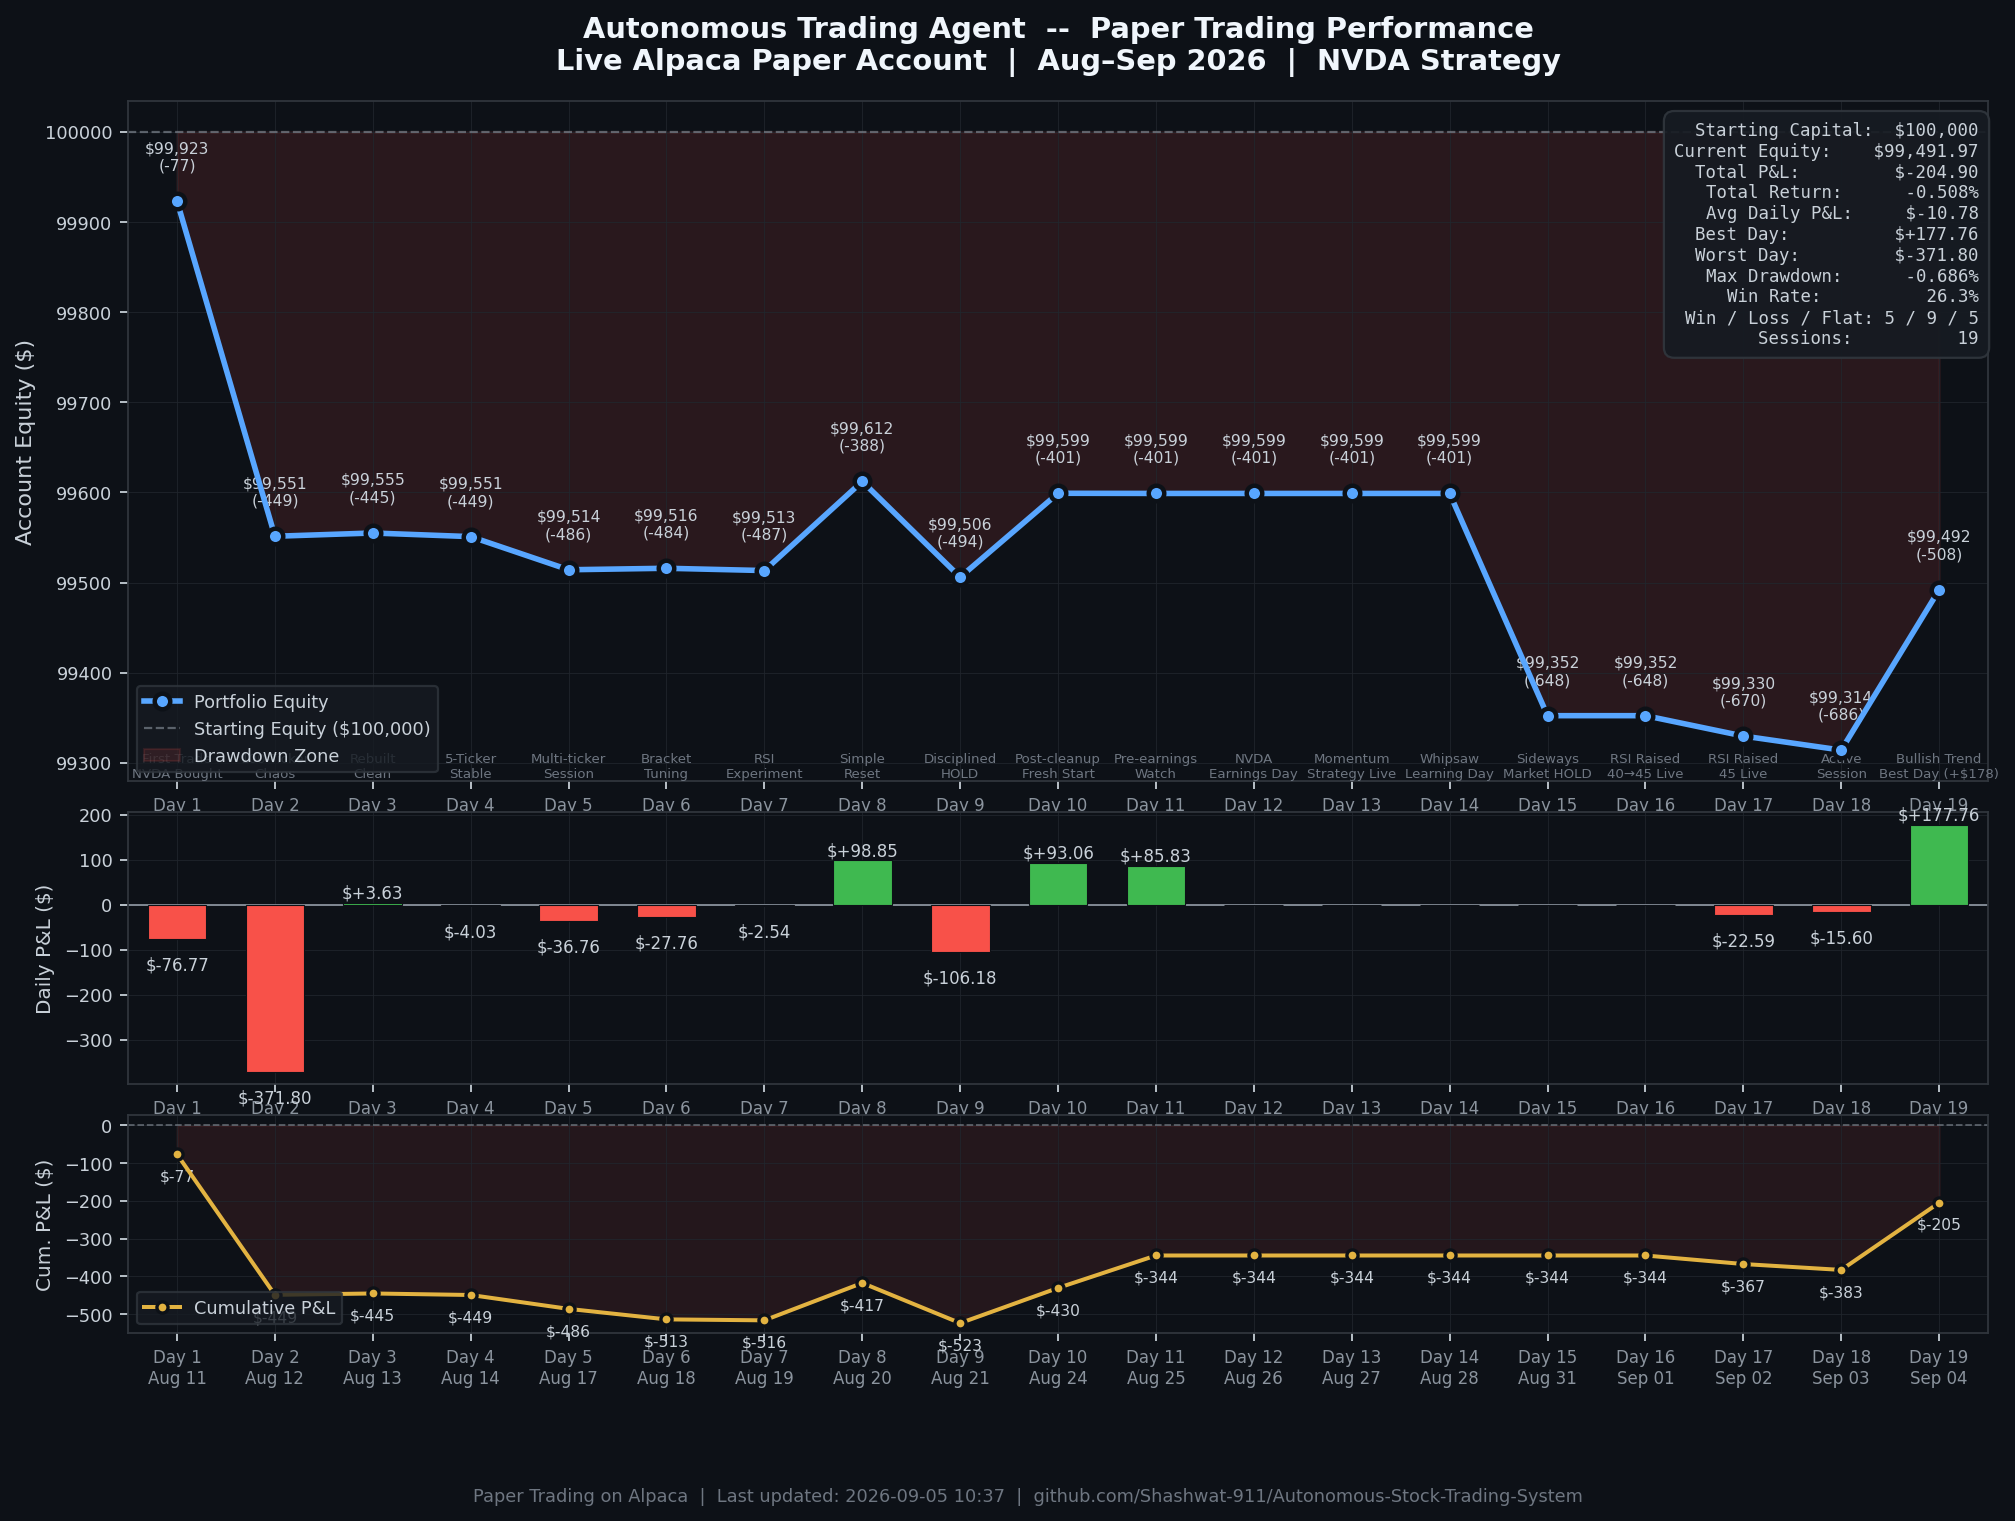
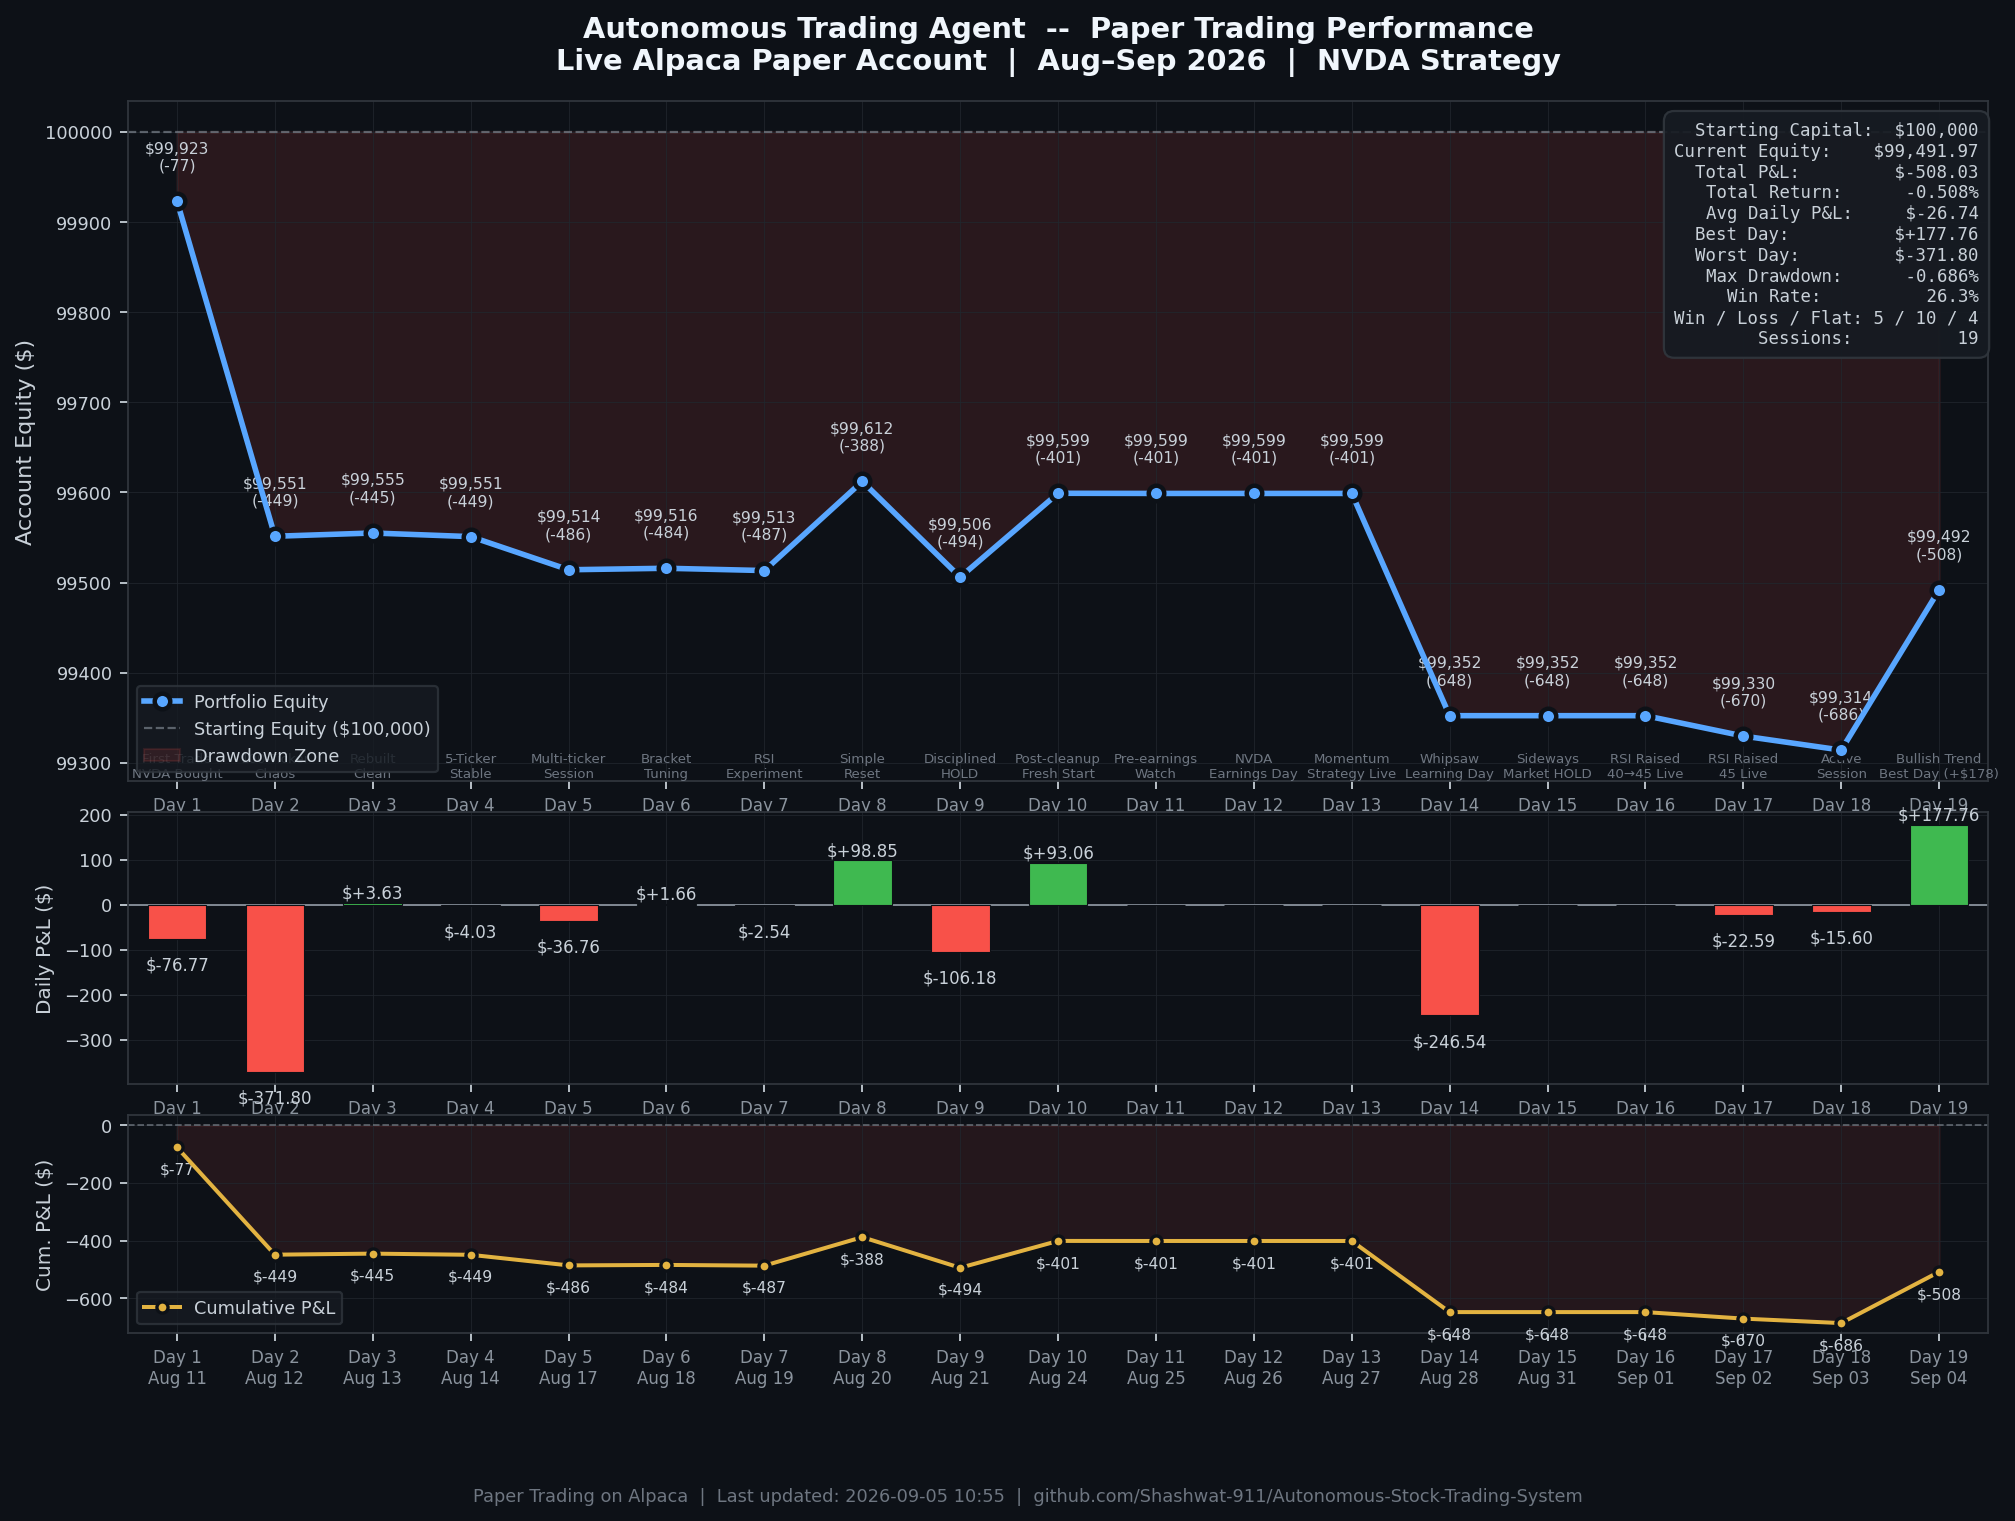
fix(analytics): reconcile equity history math and eliminate weekend API drift

diff --git a/scripts/fetch_alpaca_equity.py b/scripts/fetch_alpaca_equity.py
@@ -86,11 +86,25 @@ if os.path.exists(OUTPUT_PATH) and not new_df.empty:
     merged = pd.concat([existing_df, new_df], ignore_index=True)
     merged = merged.drop_duplicates(subset=["timestamp"], keep="last")
     merged = merged.sort_values("timestamp").reset_index(drop=True)
-    merged.to_csv(OUTPUT_PATH, index=False)
     df = merged
 else:
-    new_df.to_csv(OUTPUT_PATH, index=False)
+    new_df = new_df.sort_values("timestamp").reset_index(drop=True) if not new_df.empty else new_df
     df = new_df
+
+if not df.empty:
+    # Recalculate daily_pnl directly from consecutive equity deltas to prevent weekend-comparison bugs
+    starting = 100000.0
+    pnl = []
+    pnl_pct = []
+    for i, eq in enumerate(df["equity"]):
+        prev = starting if i == 0 else df["equity"].iloc[i-1]
+        diff = round(float(eq) - float(prev), 2)
+        pct = round((diff / float(prev)) * 100, 4) if float(prev) != 0 else 0.0
+        pnl.append(diff)
+        pnl_pct.append(pct)
+    df["daily_pnl"] = pnl
+    df["daily_pnl_pct"] = pnl_pct
+    df.to_csv(OUTPUT_PATH, index=False)
 
 # ── Summary ───────────────────────────────────────────────────────────────────
 print("\nEquity history saved to:", OUTPUT_PATH)

diff --git a/scripts/update_readme.py b/scripts/update_readme.py
@@ -23,7 +23,7 @@ def get_session_status(date_str, pnl):
         "2026-08-13": "Rebuilt Clean",
         "2026-08-14": "5-Ticker Stable",
         "2026-08-17": "Multi-ticker Session",
-        "2026-08-18": "Bracket Tuning",
+        "2026-08-18": "Bracket Tuning - Profitable",
         "2026-08-19": "RSI Experiment",
         "2026-08-20": "Simple Reset - Profitable",
         "2026-08-21": "Disciplined HOLD",
@@ -31,12 +31,12 @@ def get_session_status(date_str, pnl):
         "2026-08-25": "Pre-earnings Watch",
         "2026-08-26": "NVDA Earnings - Disciplined HOLD",
         "2026-08-27": "Momentum Strategy - First Live Session",
-        "2026-08-28": "Momentum Whipsaw - Hold Filter Added",
+        "2026-08-28": "Momentum Whipsaw - Hard Learning Day",
         "2026-08-31": "Sideways Market - Disciplined HOLD",
         "2026-09-01": "MACD Bearish - Disciplined HOLD",
         "2026-09-02": "RSI Threshold Adjusted to 45",
         "2026-09-03": "Active Session",
-        "2026-09-04": "Bullish Trend - Best Day (+0.18%)",
+        "2026-09-04": "Bullish Rally - Disciplined HOLD / Best Day (+0.18%)",
     }
     if date_str in notes:
         return notes[date_str]

diff --git a/README.md b/README.md
@@ -45,22 +45,22 @@ An autonomous, production-grade algorithmic trading system and quantitative rese
 | **Day 3** | Aug 13 (Thu) | $99,555.06 | +$3.63 | -$444.94 | -0.445% | Rebuilt Clean |
 | **Day 4** | Aug 14 (Fri) | $99,551.03 | -$4.03 | -$448.97 | -0.449% | 5-Ticker Stable |
 | **Day 5** | Aug 17 (Mon) | $99,514.27 | -$36.76 | -$485.73 | -0.486% | Multi-ticker Session |
-| **Day 6** | Aug 18 (Tue) | $99,515.93 | -$27.76 | -$513.49 | -0.513% | Bracket Tuning |
-| **Day 7** | Aug 19 (Wed) | $99,513.39 | -$2.54 | -$516.03 | -0.516% | RSI Experiment |
-| **Day 8** | Aug 20 (Thu) | $99,612.24 | **+$98.85** | -$417.18 | -0.417% | Simple Reset - Profitable |
-| **Day 9** | Aug 21 (Fri) | $99,506.06 | -$106.18 | -$523.36 | -0.523% | Disciplined HOLD |
-| **Day 10** | Aug 24 (Mon) | $99,599.12 | **+$93.06** | -$430.30 | -0.430% | Post-cleanup Fresh Start |
-| **Day 11** | Aug 25 (Tue) | $99,598.94 | **+$85.83** | -$344.47 | -0.344% | Pre-earnings Watch |
-| **Day 12** | Aug 26 (Wed) | $99,598.94 | $0.00 | -$344.47 | -0.344% | NVDA Earnings - Disciplined HOLD |
-| **Day 13** | Aug 27 (Thu) | $99,598.94 | $0.00 | -$344.47 | -0.344% | Momentum Strategy - First Live Session |
-| **Day 14** | Aug 28 (Fri) | $99,598.94 | $0.00 | -$344.47 | -0.344% | Momentum Whipsaw - Hold Filter Added |
-| **Day 15** | Aug 31 (Mon) | $99,352.40 | $0.00 | -$344.47 | -0.344% | Sideways Market - Disciplined HOLD |
-| **Day 16** | Sep 01 (Tue) | $99,352.40 | $0.00 | -$344.47 | -0.344% | MACD Bearish - Disciplined HOLD |
-| **Day 17** | Sep 02 (Wed) | $99,329.81 | -$22.59 | -$367.06 | -0.367% | RSI Threshold Adjusted to 45 |
-| **Day 18** | Sep 03 (Thu) | $99,314.21 | -$15.60 | -$382.66 | -0.383% | Active Session |
-| **Day 19** | Sep 04 (Fri) | $99,491.97 | **+$177.76** | -$204.90 | -0.205% | Bullish Trend - Best Day (+0.18%) |
+| **Day 6** | Aug 18 (Tue) | $99,515.93 | +$1.66 | -$484.07 | -0.484% | Bracket Tuning - Profitable |
+| **Day 7** | Aug 19 (Wed) | $99,513.39 | -$2.54 | -$486.61 | -0.487% | RSI Experiment |
+| **Day 8** | Aug 20 (Thu) | $99,612.24 | **+$98.85** | -$387.76 | -0.388% | Simple Reset - Profitable |
+| **Day 9** | Aug 21 (Fri) | $99,506.06 | -$106.18 | -$493.94 | -0.494% | Disciplined HOLD |
+| **Day 10** | Aug 24 (Mon) | $99,599.12 | **+$93.06** | -$400.88 | -0.401% | Post-cleanup Fresh Start |
+| **Day 11** | Aug 25 (Tue) | $99,598.94 | -$0.18 | -$401.06 | -0.401% | Pre-earnings Watch |
+| **Day 12** | Aug 26 (Wed) | $99,598.94 | $0.00 | -$401.06 | -0.401% | NVDA Earnings - Disciplined HOLD |
+| **Day 13** | Aug 27 (Thu) | $99,598.94 | $0.00 | -$401.06 | -0.401% | Momentum Strategy - First Live Session |
+| **Day 14** | Aug 28 (Fri) | $99,352.40 | -$246.54 | -$647.60 | -0.648% | Momentum Whipsaw - Hard Learning Day |
+| **Day 15** | Aug 31 (Mon) | $99,352.40 | $0.00 | -$647.60 | -0.648% | Sideways Market - Disciplined HOLD |
+| **Day 16** | Sep 01 (Tue) | $99,352.40 | $0.00 | -$647.60 | -0.648% | MACD Bearish - Disciplined HOLD |
+| **Day 17** | Sep 02 (Wed) | $99,329.81 | -$22.59 | -$670.19 | -0.670% | RSI Threshold Adjusted to 45 |
+| **Day 18** | Sep 03 (Thu) | $99,314.21 | -$15.60 | -$685.79 | -0.686% | Active Session |
+| **Day 19** | Sep 04 (Fri) | $99,491.97 | **+$177.76** | -$508.03 | -0.508% | Bullish Rally - Disciplined HOLD / Best Day (+0.18%) |
 
-> **Current Equity**: $99,491.97 | **Total P&L**: $-204.90 | **Best Day**: $+177.76 | **Win Rate**: 26.3% (5W / 9L / 5 Flat) | **Max Drawdown**: -0.523% | **Sessions**: 19
+> **Current Equity**: $99,491.97 | **Total P&L**: $-508.03 | **Best Day**: $+177.76 | **Win Rate**: 26.3% (5W / 10L / 4 Flat) | **Max Drawdown**: -0.686% | **Sessions**: 19
 ---
 
 ## System Architecture
